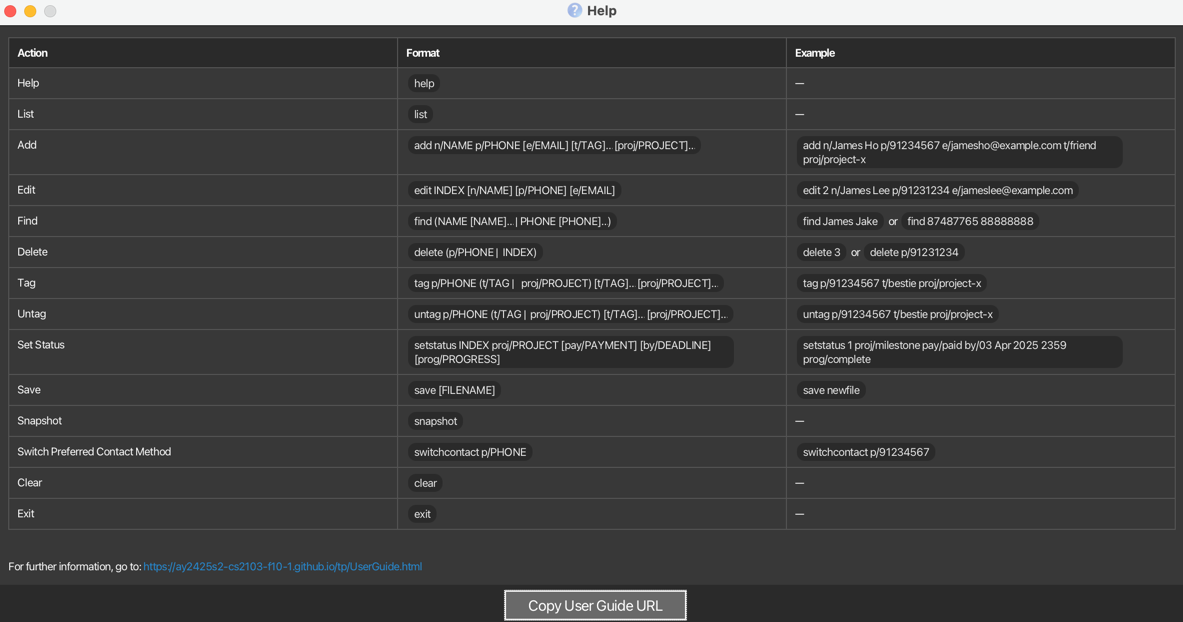
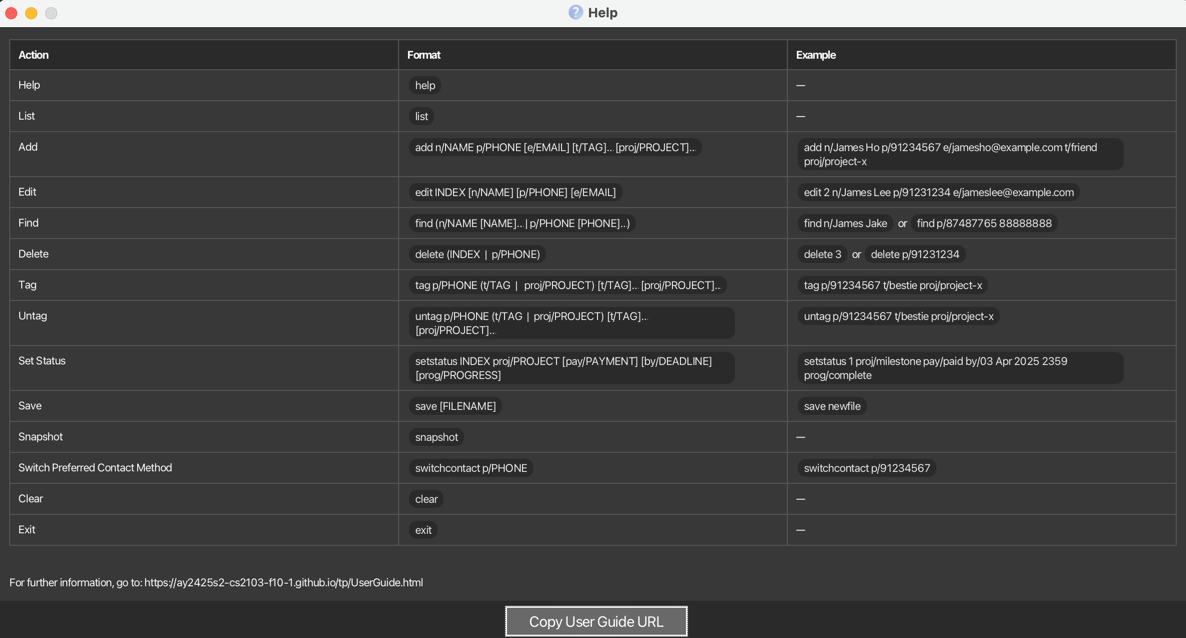
Update help window

diff --git a/src/main/resources/view/HelpContent.md b/src/main/resources/view/HelpContent.md
@@ -1,17 +1,17 @@
-| **Action**                          | **Format** | **Example**                                                              |
-|-------------------------------------|-------|--------------------------------------------------------------------------|
-| **Help**                            | `help` | —                                                                        |
-| **List**                            | `list` | —                                                                        |
+| **Action**                          | **Format**       | **Example**                                                               |
+|-------------------------------------|------------------|---------------------------------------------------------------------------|
+| **Help**                            | `help`           | —                                                                         |
+| **List**                            | `list`           | —                                                                         |
 | **Add**                             | `add n/NAME p/PHONE [e/EMAIL] [t/TAG]… [proj/PROJECT]…` | `add n/James Ho p/91234567 e/jamesho@example.com t/friend proj/project-x` |
-| **Edit**                            | `edit INDEX [n/NAME] [p/PHONE] [e/EMAIL]` | `edit 2 n/James Lee p/91231234 e/jameslee@example.com`                   |
-| **Find**                            | `find (NAME [NAME]… | PHONE [PHONE]…)`    | `find James Jake` or `find 87487765 88888888`                             |
-| **Delete**                          | `delete (p/PHONE |  INDEX)`                                                                | `delete 3` or `delete p/91231234`                                      |
-| **Tag**                             | `tag p/PHONE (t/TAG |   proj/PROJECT) [t/TAG]… [proj/PROJECT]…`                             | `tag p/91234567 t/bestie proj/project-x`                               |
-| **Untag**                           | `untag p/PHONE (t/TAG |  proj/PROJECT) [t/TAG]… [proj/PROJECT]…`                             | `untag p/91234567 t/bestie proj/project-x`                             |
-| **Set Status**                      | `setstatus INDEX proj/PROJECT [pay/PAYMENT] [by/DEADLINE] [prog/PROGRESS]` | `setstatus 1 proj/milestone pay/paid by/03 Apr 2025 2359 prog/complete`  |
-| **Save**                            | `save [FILENAME]` | `save newfile`                                                           |
-| **Snapshot**                        | `snapshot` | —                                                                        |
-| **Switch Preferred Contact Method** | `switchcontact p/PHONE` | `switchcontact p/91234567`                                               |
-| **Clear**                           | `clear` | —                                                                        |
-| **Exit**                            | `exit` | —                                                                        |
+| **Edit**                            | `edit INDEX [n/NAME] [p/PHONE] [e/EMAIL]` | `edit 2 n/James Lee p/91231234 e/jameslee@example.com`                    |
+| **Find**                            | `find (n/NAME [NAME]… | p/PHONE [PHONE]…)`                                                       | `find n/James Jake` or `find p/87487765 88888888`                             |
+| **Delete**                          | `delete (INDEX  |  p/PHONE)`                                                               | `delete 3` or `delete p/91231234`                                      |
+| **Tag**                             | `tag p/PHONE (t/TAG  |   proj/PROJECT) [t/TAG]… [proj/PROJECT]…`                              | `tag p/91234567 t/bestie proj/project-x`                               |
+| **Untag**                           | `untag p/PHONE (t/TAG  |  proj/PROJECT) [t/TAG]… [proj/PROJECT]…`                              | `untag p/91234567 t/bestie proj/project-x`                             |
+| **Set Status**                      | `setstatus INDEX proj/PROJECT [pay/PAYMENT] [by/DEADLINE] [prog/PROGRESS]` | `setstatus 1 proj/milestone pay/paid by/03 Apr 2025 2359 prog/complete`   |
+| **Save**                            | `save [FILENAME]` | `save newfile`                                                            |
+| **Snapshot**                        | `snapshot`       | —                                                                         |
+| **Switch Preferred Contact Method** | `switchcontact p/PHONE` | `switchcontact p/91234567`                                                |
+| **Clear**                           | `clear`          | —                                                                         |
+| **Exit**                            | `exit`           | —                                                                         |
 For further information, go to: https://ay2425s2-cs2103-f10-1.github.io/tp/UserGuide.html
